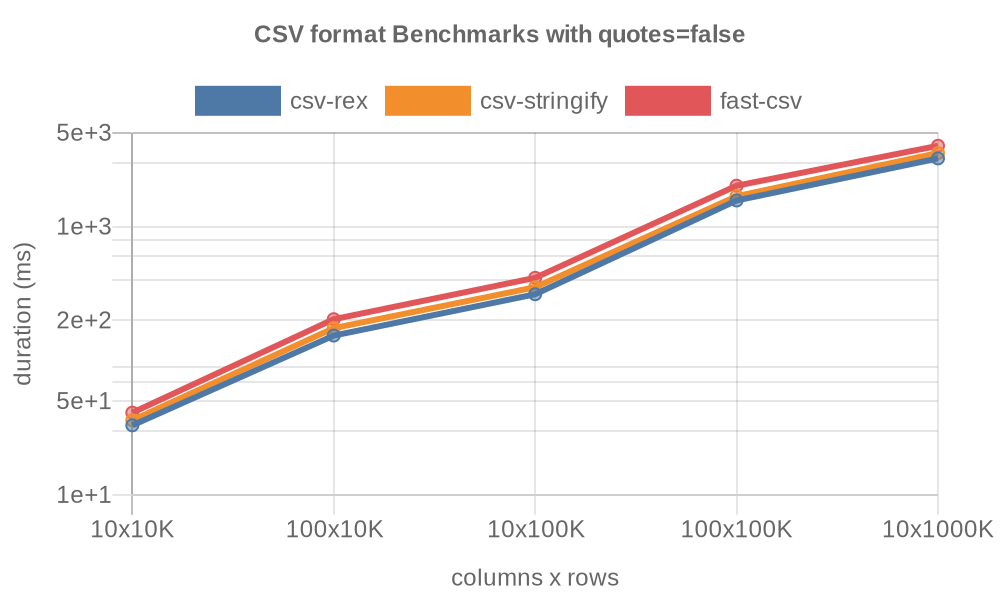
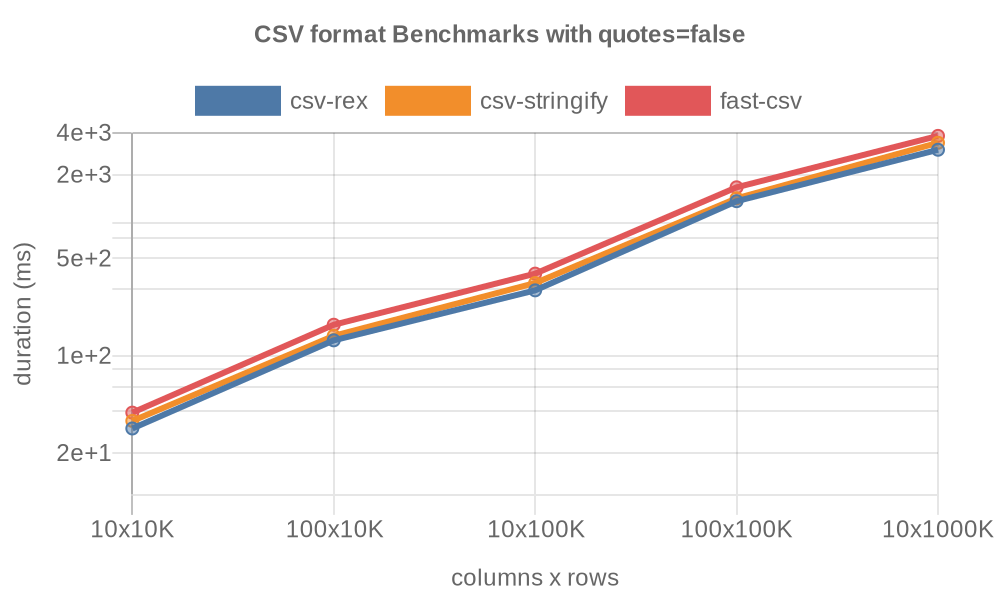
ci: update results

diff --git a/README.md b/README.md
@@ -5,14 +5,14 @@ Benchmarks of popular CSV parsers and formatters:
 <!-- packages -->
 | Package | Version | Published | Parse | Format 
 |---------|---------|-----------|-------|--------
-| [csv-parse](https://www.npmjs.com/package/csv-parse) | 5.5.0 | 6 days ago | Yes |  
+| [csv-parse](https://www.npmjs.com/package/csv-parse) | 5.5.0 | 1 month ago | Yes |  
 | [csv-parser](https://www.npmjs.com/package/csv-parser) | 3.0.0 | 3 years ago | Yes |  
-| [csv-rex](https://www.npmjs.com/package/csv-rex) | 0.7.0 | 3 months ago | Yes | Yes 
-| [csv-streamify](https://www.npmjs.com/package/csv-streamify) | 4.0.0 | 5 years ago | Yes |  
-| [csv-stringify](https://www.npmjs.com/package/csv-stringify) | 6.4.2 | 6 days ago |  | Yes 
+| [csv-rex](https://www.npmjs.com/package/csv-rex) | 0.7.0 | 4 months ago | Yes | Yes 
+| [csv-streamify](https://www.npmjs.com/package/csv-streamify) | 4.0.0 | 6 years ago | Yes |  
+| [csv-stringify](https://www.npmjs.com/package/csv-stringify) | 6.4.2 | 1 month ago |  | Yes 
 | [csvtojson](https://www.npmjs.com/package/csvtojson) | 2.0.10 | 4 years ago | Yes |  
 | [fast-csv](https://www.npmjs.com/package/fast-csv) | 4.3.6 | 3 years ago | Yes | Yes 
-| [papaparse](https://www.npmjs.com/package/papaparse) | 5.4.1 | 5 months ago | Yes |  
+| [papaparse](https://www.npmjs.com/package/papaparse) | 5.4.1 | 6 months ago | Yes |  
 <!-- packages -->
 
 Your preferred CSV package missing? PRs welcome. Excluded packages in `/docs/EXCLUDED.md`.
@@ -39,13 +39,13 @@ Benchmarked on GitHub Actions. Only the fastest 5 will be visualized.
 <!-- parse quotes=true -->
 | Package | 10x10K | 100x10K | 10x100K | 100x100K | 10x1000K 
 |---------|---|---|---|---|---
-| **csv-rex** | 37ms | 284ms | 339ms | 2,864ms | 3,412ms 
-| **papaparse** | 62ms | 306ms | 605ms | 3,097ms | 5,878ms 
-| **csv-parser** | 62ms | 605ms | 634ms | 6,483ms | 6,815ms 
-| **csvtojson** | 81ms | 688ms | 787ms | 6,901ms | 7,928ms 
-| **csv-parse** | 114ms | 998ms | 1,126ms | 10,336ms | 11,676ms 
-| **csv-streamify** | 140ms | 1,325ms | 1,522ms | 14,710ms | 16,625ms 
-| **fast-csv** | 182ms | 1,621ms | 1,841ms | 17,305ms | 18,852ms 
+| **csv-rex** | 32ms | 239ms | 299ms | 2,326ms | 3,023ms 
+| **papaparse** | 60ms | 263ms | 557ms | 2,694ms | 5,669ms 
+| **csv-parser** | 52ms | 462ms | 529ms | 4,946ms | 5,642ms 
+| **csvtojson** | 78ms | 588ms | 749ms | 5,787ms | 7,370ms 
+| **csv-parse** | 102ms | 860ms | 978ms | 8,737ms | 10,043ms 
+| **csv-streamify** | 98ms | 933ms | 1,091ms | 10,387ms | 12,210ms 
+| **fast-csv** | 153ms | 1,358ms | 1,546ms | 13,815ms | 15,961ms 
 <!-- parse quotes=true -->
 
 ![Non-Quoted CSV Parser Benchmarks](https://github.com/willfarrell/csv-benchmarks/raw/main/results/parse_quotes%3Dfalse.png)
@@ -53,13 +53,13 @@ Benchmarked on GitHub Actions. Only the fastest 5 will be visualized.
 <!-- parse quotes=false -->
 | Package | 10x10K | 100x10K | 10x100K | 100x100K | 10x1000K 
 |---------|---|---|---|---|---
-| **csv-rex** | 15ms | 71ms | 132ms | 706ms | 1,289ms 
-| **csvtojson** | 48ms | 400ms | 463ms | 4,043ms | 4,666ms 
-| **csv-parser** | 52ms | 508ms | 536ms | 5,432ms | 5,733ms 
-| **papaparse** | 194ms | 84ms | 1,785ms | 809ms | 15,897ms 
-| **csv-parse** | 91ms | 811ms | 942ms | 8,580ms | 9,887ms 
-| **csv-streamify** | 120ms | 1,206ms | 1,398ms | 13,720ms | 15,767ms 
-| **fast-csv** | 149ms | 1,332ms | 1,510ms | 14,054ms | 15,875ms 
+| **csv-rex** | 12ms | 55ms | 113ms | 545ms | 1,119ms 
+| **csvtojson** | 44ms | 320ms | 440ms | 3,222ms | 4,458ms 
+| **csv-parser** | 44ms | 399ms | 456ms | 4,285ms | 4,893ms 
+| **papaparse** | 178ms | 75ms | 1,576ms | 719ms | 14,007ms 
+| **csv-parse** | 76ms | 665ms | 794ms | 7,258ms | 8,731ms 
+| **csv-streamify** | 89ms | 875ms | 1,039ms | 9,971ms | 11,678ms 
+| **fast-csv** | 123ms | 1,108ms | 1,263ms | 11,575ms | 13,549ms 
 <!-- parse quotes=false -->
 
 ### Format
@@ -69,9 +69,9 @@ Benchmarked on GitHub Actions. Only the fastest 5 will be visualized.
 <!-- format quotes=false -->
 | Package | 10x10K | 100x10K | 10x100K | 100x100K | 10x1000K 
 |---------|---|---|---|---|---
-| **csv-rex** | 33ms | 154ms | 313ms | 1,565ms | 3,221ms 
-| **csv-stringify** | 36ms | 175ms | 353ms | 1,684ms | 3,537ms 
-| **fast-csv** | 41ms | 204ms | 415ms | 2,017ms | 4,002ms 
+| **csv-rex** | 30ms | 129ms | 295ms | 1,290ms | 3,022ms 
+| **csv-stringify** | 34ms | 139ms | 333ms | 1,353ms | 3,392ms 
+| **fast-csv** | 39ms | 167ms | 389ms | 1,623ms | 3,801ms 
 <!-- format quotes=false -->
 
 ## Thanks

diff --git a/results/parse_quotes=true.md b/results/parse_quotes=true.md
@@ -1,9 +1,9 @@
 | Package | 10x10K | 100x10K | 10x100K | 100x100K | 10x1000K 
 |---------|---|---|---|---|---
-| **csv-rex** | 37ms | 284ms | 339ms | 2,864ms | 3,412ms 
-| **papaparse** | 62ms | 306ms | 605ms | 3,097ms | 5,878ms 
-| **csv-parser** | 62ms | 605ms | 634ms | 6,483ms | 6,815ms 
-| **csvtojson** | 81ms | 688ms | 787ms | 6,901ms | 7,928ms 
-| **csv-parse** | 114ms | 998ms | 1,126ms | 10,336ms | 11,676ms 
-| **csv-streamify** | 140ms | 1,325ms | 1,522ms | 14,710ms | 16,625ms 
-| **fast-csv** | 182ms | 1,621ms | 1,841ms | 17,305ms | 18,852ms 
+| **csv-rex** | 32ms | 239ms | 299ms | 2,326ms | 3,023ms 
+| **papaparse** | 60ms | 263ms | 557ms | 2,694ms | 5,669ms 
+| **csv-parser** | 52ms | 462ms | 529ms | 4,946ms | 5,642ms 
+| **csvtojson** | 78ms | 588ms | 749ms | 5,787ms | 7,370ms 
+| **csv-parse** | 102ms | 860ms | 978ms | 8,737ms | 10,043ms 
+| **csv-streamify** | 98ms | 933ms | 1,091ms | 10,387ms | 12,210ms 
+| **fast-csv** | 153ms | 1,358ms | 1,546ms | 13,815ms | 15,961ms 

diff --git a/results/parse_quotes=false.md b/results/parse_quotes=false.md
@@ -1,9 +1,9 @@
 | Package | 10x10K | 100x10K | 10x100K | 100x100K | 10x1000K 
 |---------|---|---|---|---|---
-| **csv-rex** | 15ms | 71ms | 132ms | 706ms | 1,289ms 
-| **csvtojson** | 48ms | 400ms | 463ms | 4,043ms | 4,666ms 
-| **csv-parser** | 52ms | 508ms | 536ms | 5,432ms | 5,733ms 
-| **papaparse** | 194ms | 84ms | 1,785ms | 809ms | 15,897ms 
-| **csv-parse** | 91ms | 811ms | 942ms | 8,580ms | 9,887ms 
-| **csv-streamify** | 120ms | 1,206ms | 1,398ms | 13,720ms | 15,767ms 
-| **fast-csv** | 149ms | 1,332ms | 1,510ms | 14,054ms | 15,875ms 
+| **csv-rex** | 12ms | 55ms | 113ms | 545ms | 1,119ms 
+| **csvtojson** | 44ms | 320ms | 440ms | 3,222ms | 4,458ms 
+| **csv-parser** | 44ms | 399ms | 456ms | 4,285ms | 4,893ms 
+| **papaparse** | 178ms | 75ms | 1,576ms | 719ms | 14,007ms 
+| **csv-parse** | 76ms | 665ms | 794ms | 7,258ms | 8,731ms 
+| **csv-streamify** | 89ms | 875ms | 1,039ms | 9,971ms | 11,678ms 
+| **fast-csv** | 123ms | 1,108ms | 1,263ms | 11,575ms | 13,549ms 

diff --git a/results/format_quotes=false.md b/results/format_quotes=false.md
@@ -1,5 +1,5 @@
 | Package | 10x10K | 100x10K | 10x100K | 100x100K | 10x1000K 
 |---------|---|---|---|---|---
-| **csv-rex** | 33ms | 154ms | 313ms | 1,565ms | 3,221ms 
-| **csv-stringify** | 36ms | 175ms | 353ms | 1,684ms | 3,537ms 
-| **fast-csv** | 41ms | 204ms | 415ms | 2,017ms | 4,002ms 
+| **csv-rex** | 30ms | 129ms | 295ms | 1,290ms | 3,022ms 
+| **csv-stringify** | 34ms | 139ms | 333ms | 1,353ms | 3,392ms 
+| **fast-csv** | 39ms | 167ms | 389ms | 1,623ms | 3,801ms 
